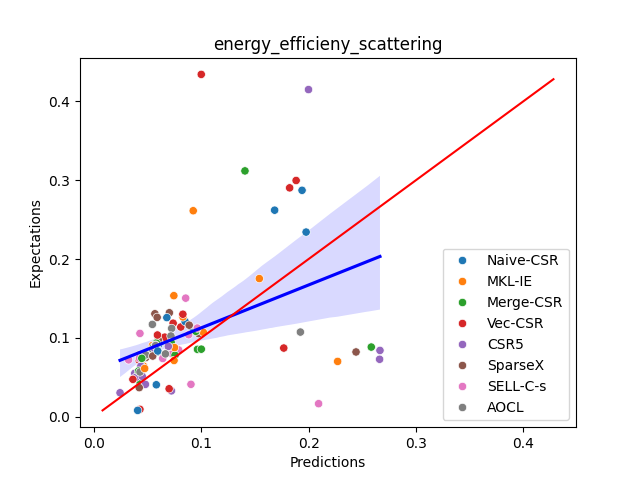
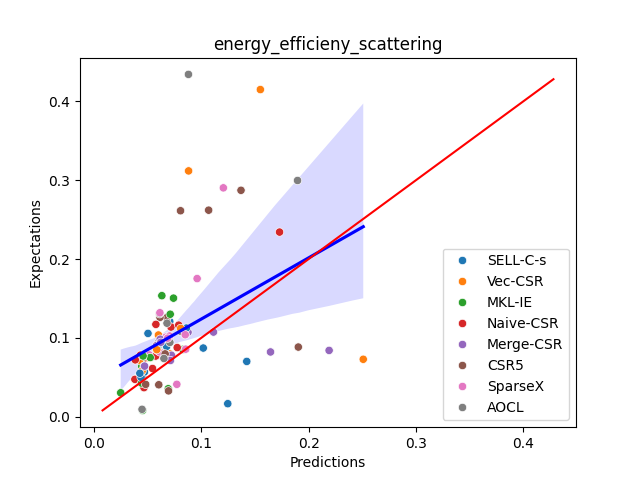
Runned mlp and added run.sh

diff --git a/Performance_predictors/main.py b/Performance_predictors/main.py
@@ -150,7 +150,7 @@ if __name__ == "__main__":
                 # Running mlp for larger than cache
                 csv_path_larger_than_cache = g.DATA_PATH + "all_format/all_format_{}_larger_than_cache.csv".format(system_used)
                 csv_path_validation_larger_than_cache = g.DATA_PATH + "validation/all_format/all_format_{}_larger_than_cache.csv".format(system_used)
-                validation_dataset_larger_than_cache = dataReader.SparseMatrixDataset(csv_path_validation_larger_than_cache, True)
+                validation_dataset_larger_than_cache = dataReader.SparseMatrixDataset(csv_path_validation_larger_than_cache, False)
                 validation_loader_larger_than_cache = DataLoader(validation_dataset_larger_than_cache, batch_size=1, shuffle=True)
 
                 mlp_model_larger_than_cache = runners.run_mlp(MLP_globals.activation_fn,
@@ -175,7 +175,7 @@ if __name__ == "__main__":
                 # Running mlp for smaller than cache
                 csv_path_smaller_than_cache = g.DATA_PATH + "all_format/all_format_{}_smaller_than_cache.csv".format(system_used)
                 csv_path_valiation_smaller_than_cache = g.DATA_PATH + "validation/all_format/all_format_{}_smaller_than_cache.csv".format(system_used)
-                validation_dataset_smaller_than_cache = dataReader.SparseMatrixDataset(csv_path_valiation_smaller_than_cache, True)
+                validation_dataset_smaller_than_cache = dataReader.SparseMatrixDataset(csv_path_valiation_smaller_than_cache, False)
                 validation_loader_smaller_than_cache = DataLoader(validation_dataset_smaller_than_cache, batch_size=1, shuffle=True)
 
                 mlp_model_smaller_than_cache = runners.run_mlp(MLP_globals.activation_fn,

diff --git a/Performance_predictors/dataReader.py b/Performance_predictors/dataReader.py
@@ -6,7 +6,7 @@ from sklearn import preprocessing
 
 
 class SparseMatrixDataset(Dataset):
-    def __init__(self, csv_file, using_implementation : bool):
+    def __init__(self, csv_file, using_implementation_split : bool):
         self.features = ["A_mem_footprint", 
             "avg_nz_row", 
             "skew_coeff", 
@@ -31,7 +31,7 @@ class SparseMatrixDataset(Dataset):
         avg_bandwidth_scaled = torch.tensor(self.dataframe[self.features[-1]].to_numpy().reshape(-1, 1), dtype=torch.float32)
         self.x = torch.cat((self.x, avg_bandwidth_scaled), 1)
         
-        if not(using_implementation):
+        if not(using_implementation_split):
             # Adding the implementation feature to the X entry
             implementation_labels = self.dataframe["implementation"].unique().tolist() # Getting all unique labels of implementation
             self.mappings = {k: i for i, k in enumerate(implementation_labels)} # Mapping one-hot-encoded labels

diff --git a/Performance_predictors/globals.py b/Performance_predictors/globals.py
@@ -16,5 +16,5 @@ models = ["mlp",
           "svr",
           "tree"]
 
-IMPLEMENTATIONS_AMD_EPYC_24 = ['AOCL', 'CSR5', 'Vec-CSR', 'Merge-CSR', 'MKL-IE', 'Naive-CSR', 'SELL-C-s', 'SparseX'] #TODO : SparseX
+IMPLEMENTATIONS_AMD_EPYC_24 = ['AOCL', 'CSR5', 'Vec-CSR', 'Merge-CSR', 'MKL-IE', 'Naive-CSR', 'SELL-C-s', 'SparseX']
 IMPLEMENTATIONS_TESLA_A100 = ['Merge', 'cu-COO', 'cu-CSR']

diff --git a/Performance_predictors/MLP/globals.py b/Performance_predictors/MLP/globals.py
@@ -1,6 +1,6 @@
 import torch
 
-nb_epochs = 100
+nb_epochs = 150
 lr = 0.01
 loss_fn = torch.nn.MSELoss()
 activation_fn = torch.nn.Sigmoid()
